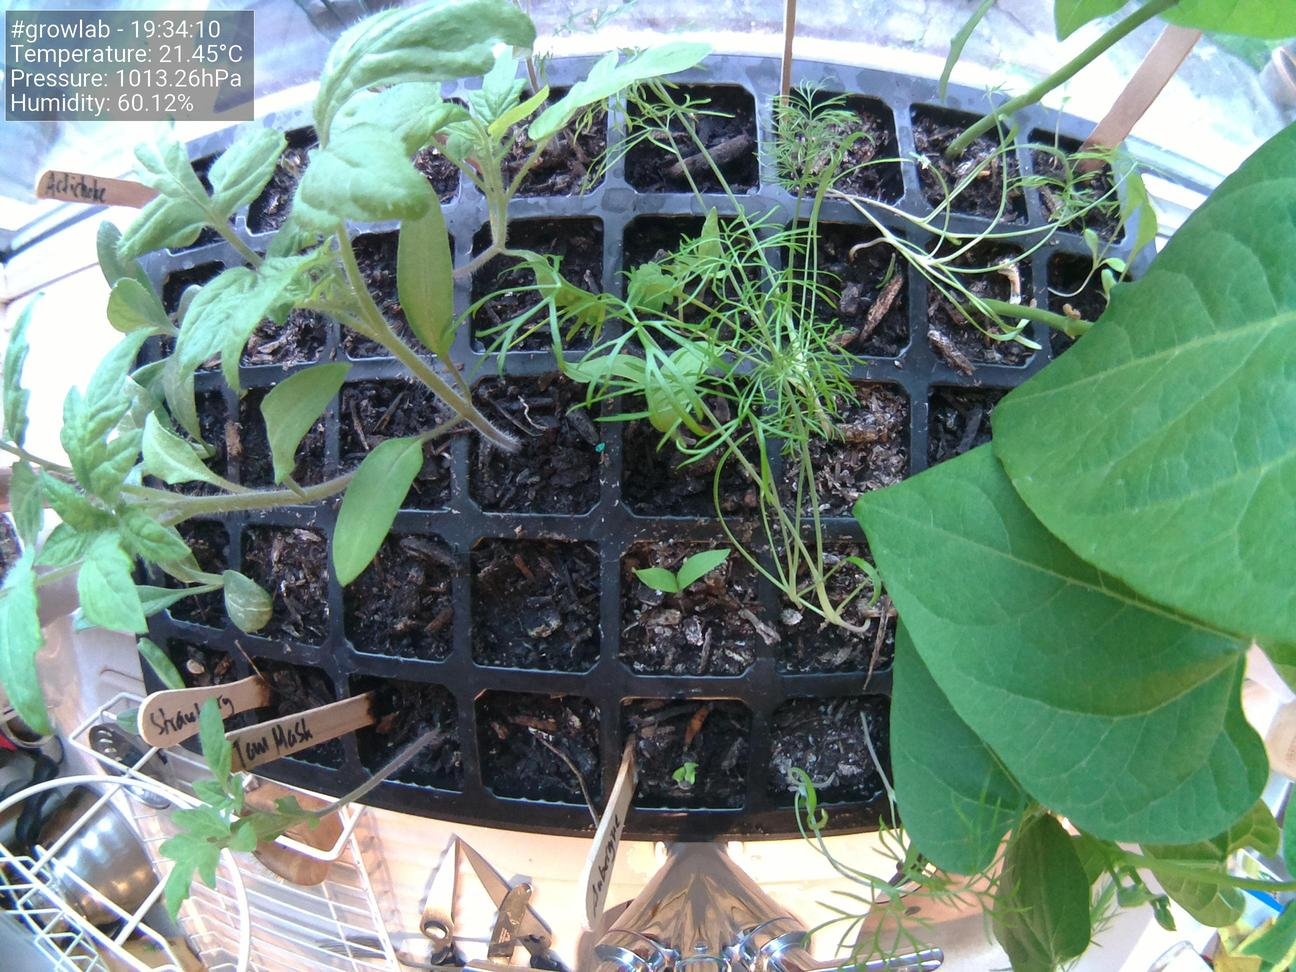
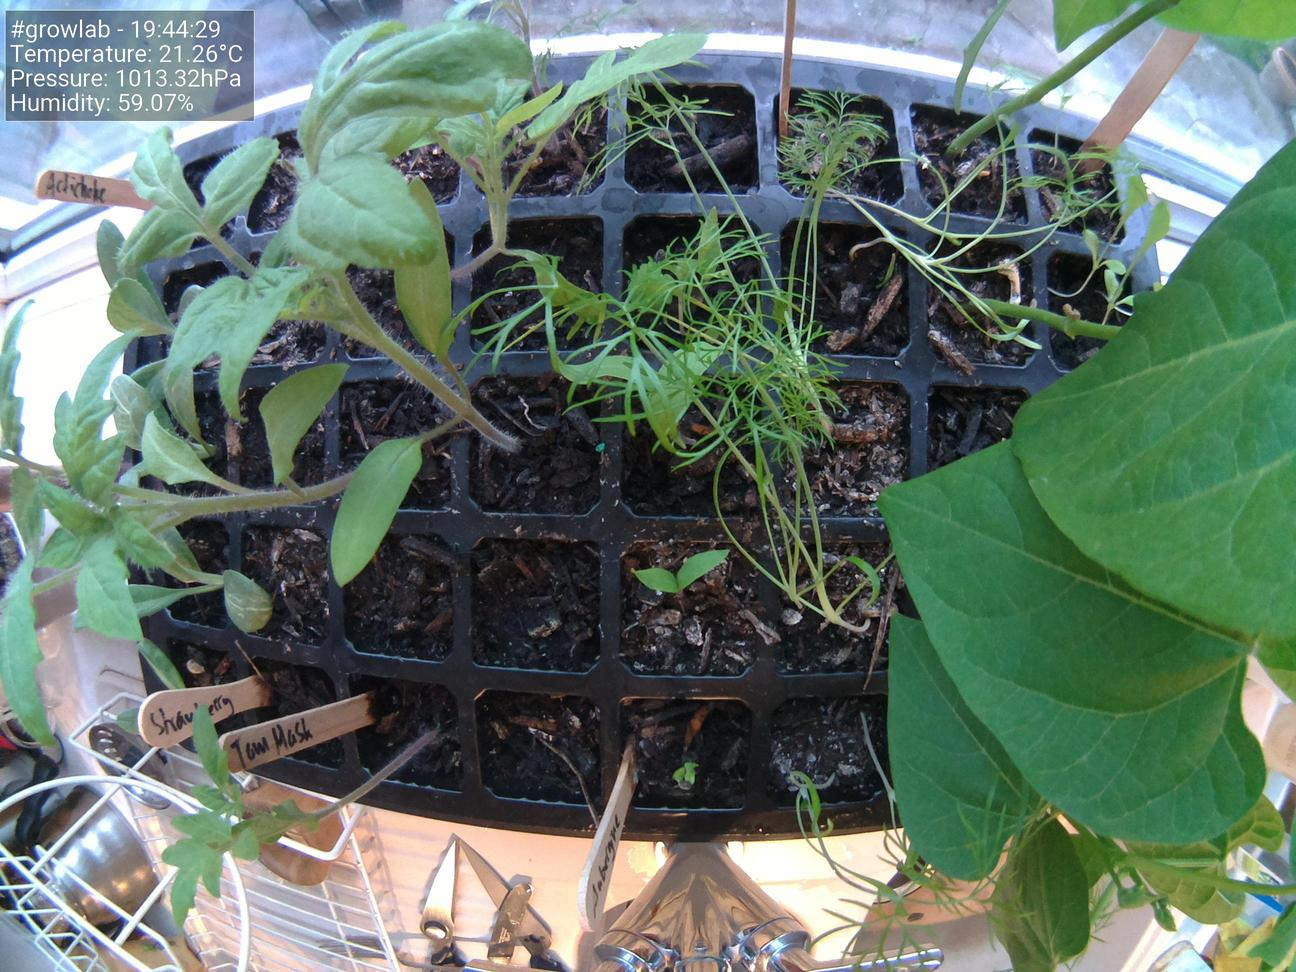
Update images at Thu 29 Apr 19:44:41 BST 2021

diff --git a/docs/index.html b/docs/index.html
@@ -38,19 +38,19 @@
                     <tbody>
                         <tr>
                             <td>Time</td>
-                            <td>19:34:10</td>
+                            <td>19:44:29</td>
                         </tr>
                         <tr>
                             <td>Temperature</td>
-                            <td>21.45°C</td>
+                            <td>21.26°C</td>
                         </tr>
                         <tr>
                             <td>Humidity</td>
-                            <td>60.12%</td>
+                            <td>59.07%</td>
                         </tr>
                         <tr>
                             <td>Pressure</td>
-                            <td>1013.26hPa</td>
+                            <td>1013.32hPa</td>
                         </tr>
                     </tbody>
                 </table>
@@ -58,7 +58,7 @@
 
                 <h5>Latest image</h5>
 		<div style="width: 85%;">
-	                <img class="figure-img img-fluid rounded" src="./preview.jpg?uid=1619721261.2242458">
+	                <img class="figure-img img-fluid rounded" src="./preview.jpg?uid=1619721880.622893">
 		</div>
             </div>
         </div>
